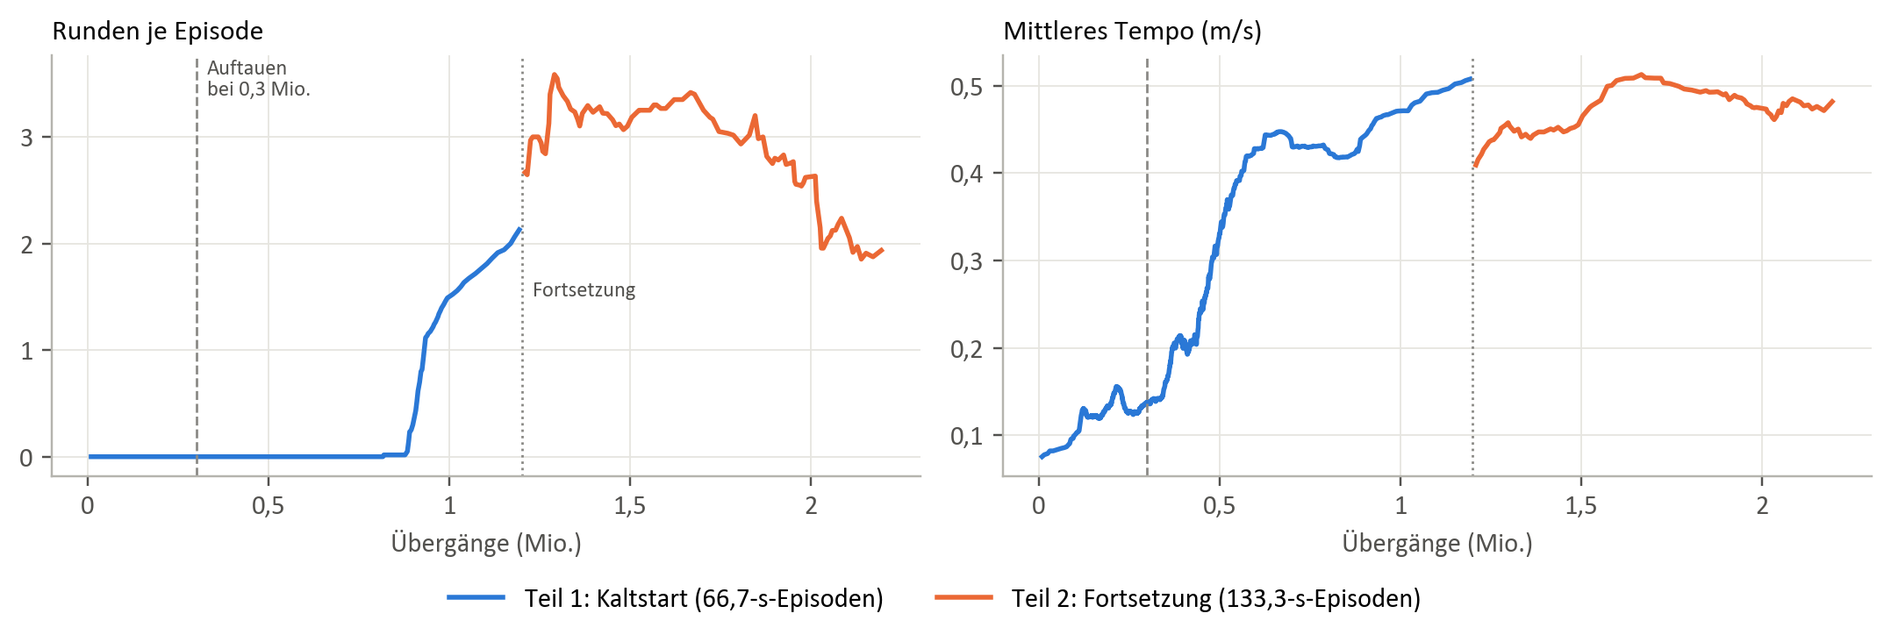
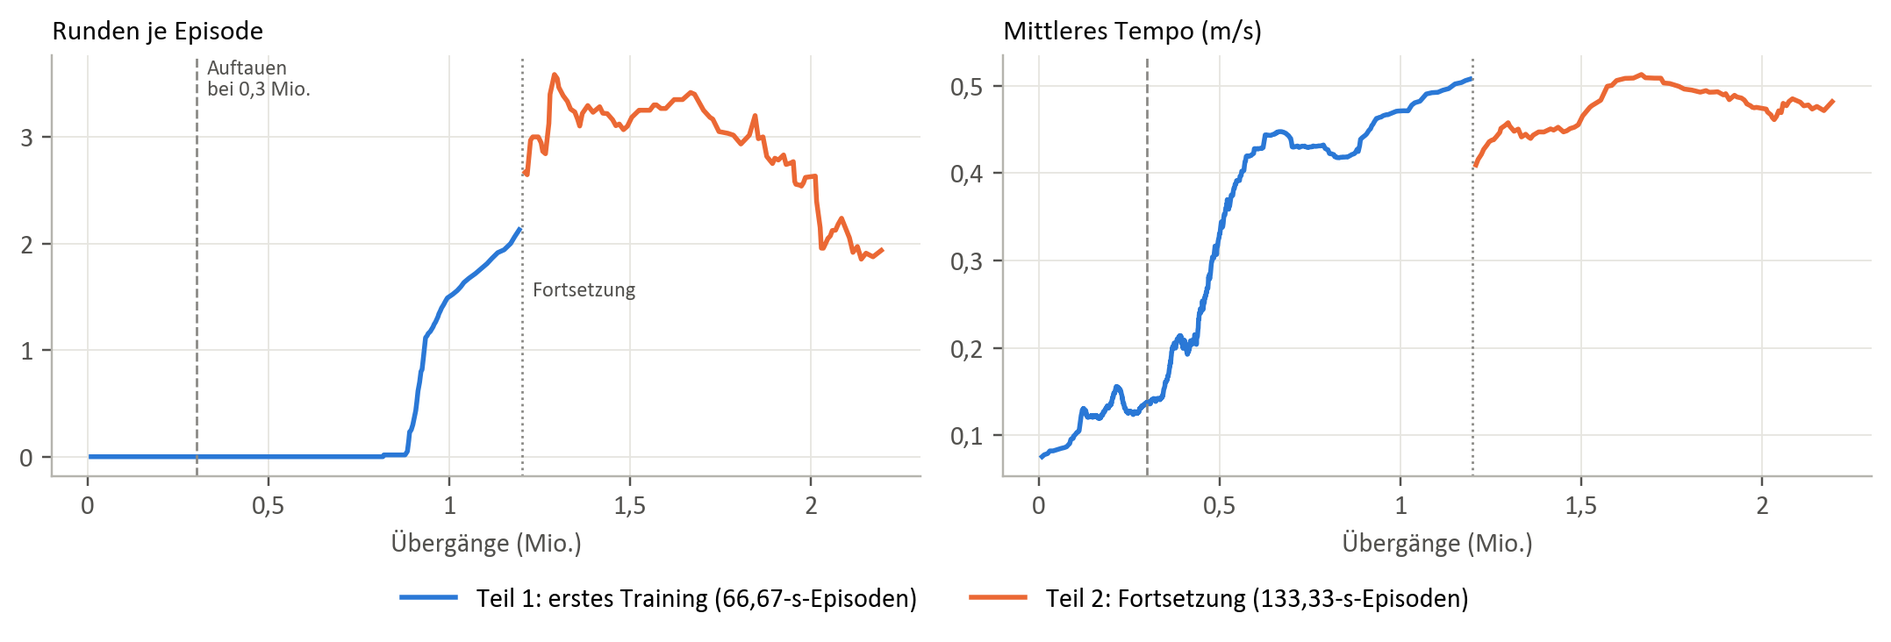
Felix-Teil ueberarbeitet: Kapitel 5/6, Bilder und Literatur aktualisiert

Changed region(s): [[0.2176, 0.9016, 0.7773, 0.9617]]

diff --git a/astra/chapters/felix_teil/06-trainingsablauf.tex b/astra/chapters/felix_teil/06-trainingsablauf.tex
@@ -1,15 +1,13 @@
-% 06-trainingsablauf.tex  --  Teil Felix (Phase 2), Stand: Arbeit V14 - Claude.docx (26.10.2026)
-% Bilder liegen in chapters/felix_teil/bilder/ (Pfade relativ zu main.tex).
+% 06-trainingsablauf.tex
 \chapter{Trainingsablauf in Isaac}
 \label{chap:trainingsablauf}
 
-Wie in Phase~1 gezeigt, ist es von Vorteil, das \ac{RL}-Training nicht ohne Vorbereitung zu starten. Ein Kamera-Agent, der von Null an lernt, muss zwei Dinge gleichzeitig herausfinden: was die Pixel bedeuten und wie man fährt. Das einzige Signal dafür ist die Belohnung. Um das zu erleichtern, wird der Bildteil des Netzes vorab überwacht trainiert. Dieses Kapitel beschreibt zunächst die Trainingspipeline und die Änderungen gegenüber Phase~1. Anschließend folgen die beiden fahrenden Kamera-Agenten, die im Verlauf der Arbeit entstanden sind, im Folgenden Agent~1 und Agent~2. Beide durchlaufen dieselben vier Stufen, unterscheiden sich aber im Ziel des Vortrainings und in den Darstellungen der Strecke: Agent~1 lernt auf einer einzigen Darstellung, Agent~2 auf zwölf.
+Wie in Phase~1 gezeigt, ist es von Vorteil, das \ac{RL}-Training nicht ohne Vorbereitung zu starten. Ein Kamera-Agent, der von Null an lernt, muss zwei Dinge gleichzeitig herausfinden: was die Pixel bedeuten und wie man fährt. Das einzige Signal dafür ist die Belohnung. Um das zu erleichtern, wird der Bildteil des Netzes vorab überwacht trainiert. Anschließend folgen die beiden fahrenden Kamera-Agenten, die im Verlauf der Arbeit entstanden sind, im Folgenden Agent~1 und Agent~2. Beide durchlaufen dieselben vier Stufen, unterscheiden sich aber im Ziel des Vortrainings und in den Darstellungen der Strecke: Agent~1 lernt auf einer einzigen Darstellung, Agent~2 auf zwölf.
 
-% ════════════════════════════════════════════════════════════════════════════
 \section{Die Trainingspipeline in 3D}
 \label{sec:pipeline3d}
 
-Wie in der Python-Umgebung wird auch hier eine mehrstufige Pipeline verwendet, um den Ablauf des \ac{RL}-Trainings effizienter zu gestalten. Diese Pipeline besteht in dieser Arbeit aus vier Stufen (Abbildung~\ref{fig:pipeline_stufen}).
+Entsprechend der Python-Umgebung wird auch hier eine mehrstufige Trainingspipeline verwendet, um den Ablauf des \ac{RL}-Trainings effizienter zu gestalten. Diese Pipeline besteht aus vier separaten Stufen, wie in Abbildung~\ref{fig:pipeline_stufen} zu sehen.
 
 \begin{figure}[htbp]
   \centering
@@ -19,58 +17,54 @@ Wie in der Python-Umgebung wird auch hier eine mehrstufige Pipeline verwendet, u
 \end{figure}
 
 \paragraph{Stufe 1 -- Lehrer.}
-Wie in Phase~1 wird zuerst ein Agent trainiert, der als Lehrer für den späteren bildbasierten Agenten dient (Abschnitt~\ref{subsec:privileged}). Während der Lehrer in der 2D-Umgebung anhand von Lidar-Strahlen lernte, ist er hier zustandsbasiert: Er erhält den exakten Zustand aus der Simulation, also Geschwindigkeit, Drehrate, Richtungsfehler, Querversatz und die Abstände zu beiden Fahrbahnkanten, sowie seine letzte Aktion. Da Isaac alle diese Größen ohnehin kennt, ist es nicht nötig, Abstandsstrahlen nachzubilden.
+Wie in Phase~1 wird zuerst ein Agent trainiert, der als Lehrer für den späteren bildbasierten Agenten dient (Abschnitt~\ref{subsec:privileged}). Während der Lehrer in der 2D-Umgebung anhand von Lidar-Strahlen lernte, ist er hier zustandsbasiert. Er erhält den exakten Zustand aus der Simulation, also Geschwindigkeit, Drehrate, Richtungsfehler, Querversatz und die Abstände zu beiden Fahrbahnkanten, sowie seine letzte Aktion. Da Isaac alle diese Größen ohnehin kennt, ist es nicht nötig, Abstandsstrahlen nachzubilden.
 
-Dieser Lehrer wird mit \ac{SAC} auf 64 parallelen Umgebungen trainiert und fährt nach \num{768000} Übergängen 8 Runden pro Episode ohne Crash, mit einer Rundenzeit von ca.\ \SI{8.3}{\second}. Damit ist gezeigt, dass Physik und Belohnungsfunktion in 3D lösbar sind.
+Dieser Lehrer wird mit \ac{SAC} auf 64 parallelen Umgebungen trainiert und fährt nach \num{768000} Übergängen 8 Runden je Episode ohne Crash, mit einer Rundenzeit von ca.\ \SI{8.3}{\second}. Damit ist gezeigt, dass Physik und Belohnungsfunktion in 3D lösbar sind.
 
 \paragraph{Stufe 2 -- Datenaufzeichnung.}
-Anschließend fährt der Lehrer in der Kamera-Umgebung, und zu jedem Schritt werden der Bildstapel und die Aktion des Lehrers gespeichert, insgesamt \num{48000} Paare. Abweichend von Phase~1 fährt der Lehrer dabei deterministisch, ohne injiziertes Rauschen (Gleichung~\eqref{eq:noise}); Vielfalt im Datensatz entsteht nur durch die zufälligen Startpositionen.
-% TODO (Felix): Datenquelle von Agent 2 fehlt noch (600 Lagen aus einer Fahrt von Agent 1, in allen 12 Darstellungen gerendert).
+Anschließend fährt der Lehrer in der Kamera-Umgebung. Zu jedem Schritt werden der Bildstapel und die Aktion des Lehrers gespeichert, insgesamt \num{48000} Paare. Abweichend von Phase~1 fährt der Lehrer dabei deterministisch, ohne injiziertes Rauschen (Gleichung~\eqref{eq:noise}), Vielfalt im Datensatz entsteht nur durch die zufälligen Startpositionen. Für Agent~2 stammen die Bilder stattdessen aus einer Fahrt von Agent~1, die in allen zwölf Darstellungen der Strecke gerendert wird (Abschnitt~\ref{sec:agent2}).
 
 \paragraph{Stufe 3 -- Vortraining.}
-Vortrainiert wird der Teil des Netzes, der aus dem Bildstapel Merkmale berechnet, im Folgenden Merkmalsextraktor (Encoder). Er besteht wie in Phase~1 aus den drei Faltungsschichten des NatureCNN \cite{mnih2015human} und einer voll verbundenen Schicht mit 512 Neuronen. Für Agent~1 lernt das Netz analog zu Phase~1, die Aktionen des Lehrers nachzuahmen (\ac{BC}, Abschnitt~\ref{subsec:il}). Bestätigt wurde dabei die Warnung aus Abschnitt~\ref{sec:ergebnisse_pipeline}, dass ein niedriger Vorhersagefehler kein Fahrkönnen belegt: Von zwei Netzen fuhr das mit dem schlechteren Fehler ($R^2 = 0{,}25$ gegen $0{,}47$) \SI{60}{\percent} weiter. Nach dem Vorhersagefehler wäre das schlechtere Netz ausgewählt worden. Vortrainierte Netze wurden deshalb im Fahrversuch bewertet, nicht am Verlust.
+Vortrainiert wird der Teil des Netzes, der aus dem Bildstapel Merkmale berechnet, im Folgenden Merkmalsextraktor (Encoder). Er besteht wie in Phase~1 aus den drei Faltungsschichten des NatureCNN \cite{mnih2015human} und einer voll verbundenen Schicht mit 512 Neuronen. Für Agent~1 lernt das Netz analog zu Phase~1, die Aktionen des Lehrers nachzuahmen (\ac{BC}, Abschnitt~\ref{subsec:il}). Bestätigt wurde dabei die Warnung aus Abschnitt~\ref{sec:ergebnisse_pipeline}, dass ein niedriger Vorhersagefehler kein Fahrkönnen belegt: Von zwei Netzen fuhr das mit dem schlechteren Fehler ($R^2 = \num{0.25}$ gegen \num{0.47}) \SI{60}{\percent} weiter. Nach dem Vorhersagefehler wäre das schlechtere Netz ausgewählt worden. Vortrainierte Netze wurden deshalb im Fahrversuch bewertet, nicht am Verlust.
 
-Für Agent~2 lernt der Encoder dagegen nicht die Aktionen, sondern nur die Lage des Fahrzeugs, Querversatz zur Mittellinie und Richtungsfehler, beide aus der Simulation exakt bekannt. Vortrainiert wird damit nur das Sehen, nicht das Fahren; wie auf eine Situation zu reagieren ist, lernt der Agent erst im \ac{RL}-Training.
+Für Agent~2 lernt der Encoder dagegen nicht die Aktionen, sondern nur die Lage des Fahrzeugs, Querversatz zur Mittellinie und Richtungsfehler, beide aus der Simulation exakt bekannt. Vortrainiert wird damit nur das Sehen, nicht das Fahren, wie auf eine Situation zu reagieren ist, lernt der Agent erst im \ac{RL}-Training.
 
 \paragraph{Stufe 4 -- Online-Training mit SAC.}
 Die vortrainierten Gewichte werden in das Netz des \ac{RL}-Agenten übertragen und als Grundlage für das \ac{SAC}-Training verwendet. Für Agent~1 werden nur die Faltungsschichten übernommen, für Agent~2 der gesamte Encoder. Der Kopf hinter dem Encoder, der aus den Merkmalen die Aktionen und ihre Bewertung berechnet, ist zu Beginn zufällig initialisiert.
 
-Gerade am Anfang des Trainings sind die Gradienten des Reinforcement Learning stark verrauscht: Der Agent verlässt nach wenigen Schritten die Fahrbahn, und der Kritiker kann den Wert einer Aktion kaum einschätzen. Lernt der Encoder in dieser Phase mit, überschreiben diese Gradienten das vortrainierte Sehen, bevor der Kopf gelernt hat, es zu nutzen.
+Gerade am Anfang des Trainings sind die Gradienten des Reinforcement Learning stark verrauscht, der Agent verlässt nach wenigen Schritten die Fahrbahn, und der Critic kann den Wert einer Aktion kaum einschätzen. Lernt der Encoder in dieser Phase mit, überschreiben diese Gradienten das vortrainierte Sehen, bevor der Kopf gelernt hat, es zu nutzen.
 
 Der Encoder wird deshalb zu Beginn eingefroren: Seine Gewichte bleiben für eine festgelegte Zahl von Übergängen unverändert, und nur der Kopf lernt. Danach wird der Encoder aufgetaut und lernt mit. Die Gradienten verfeinern das Sehen nun, statt es zu zerstören. Bei Agent~1 waren die Faltungsschichten bis \num{0.3}~Mio.\ Übergänge eingefroren, bei Agent~2 der gesamte Encoder bis 2~Mio. Wie entscheidend dieser Schritt ist, zeigt ein Gegenversuch (Abschnitt~\ref{sec:einfrieren}).
 
-% ════════════════════════════════════════════════════════════════════════════
 \section{Training des Kamera-Agenten}
 \label{sec:kamera_training}
 
-Der Kamera-Agent wird, wie in Phase~1 erarbeitet, mit \ac{SAC} trainiert (Abschnitte~\ref{subsec:ppo_sac} und~\ref{subsec:ppo_sac_vergleich}); auch die Netzarchitektur, das NatureCNN, stammt aus Phase~1. Actor und Kritiker besitzen jeweils einen eigenen Encoder, dahinter je einen Kopf, der die drei Aktionen bzw.\ deren Bewertung berechnet.
+Der Kamera-Agent wird, wie in Phase~1 erarbeitet, mit \ac{SAC} trainiert (Abschnitte~\ref{subsec:ppo_sac} und~\ref{subsec:ppo_sac_vergleich}); auch die Netzarchitektur, das NatureCNN, stammt aus Phase~1. Actor und Critic besitzen jeweils einen eigenen Encoder, dahinter je einen Kopf, der die drei Aktionen bzw.\ deren Bewertung berechnet.
 
 Während des Trainings fährt der Agent parallel in mehreren Umgebungen. Jeder Übergang landet im Erfahrungsspeicher, aus dem nach jedem Simulationsschritt Stichproben für die Updates gezogen werden. Die Aktionen sind dabei zufällig gestreut, damit der Agent erkundet.
 
-Als Eingabe erhält der Agent ausschließlich den Bildstapel. Belohnung, frühere Aktionen oder die Geschwindigkeit werden nicht zurückgeführt; die Belohnung dient nur als Lernsignal für den Kritiker.
+Als Eingabe erhält der Agent ausschließlich den Bildstapel. Belohnung, frühere Aktionen oder die Geschwindigkeit werden nicht zurückgeführt, die Belohnung dient nur als Lernsignal für den Critic.
 
 \paragraph{Bewertung.}
 Die Agenten werden nach dem Training deterministisch bewertet, also ohne Zufallsanteil der Aktionen und ohne Bildstörungen, mit zufälligen Startpositionen und getrennt je Darstellung der Strecke. Dabei werden Runden je Episode, mittleres Tempo, beste Rundenzeit und der Anteil der Episoden, die mit einem Crash enden, gemessen. Die Werte aus dem Training eignen sich dafür nicht, weil die Aktionen dort zufällig gestreut und über alle Darstellungen gemittelt sind. Da gute Agenten in \SI{66.67}{\second} das Zeitlimit von etwa sechs Runden erreichen, wurden die fertigen Modelle zusätzlich mit \SI{200}{\second} langen Episoden gemessen.
 
-% ════════════════════════════════════════════════════════════════════════════
 \section{Probleme auf dem Weg zum ersten Agenten}
 \label{sec:probleme_agent1}
 
-Bis zum ersten fahrenden Kamera-Agenten vergingen etwa \SI{125}{\hour} Rechenzeit in Läufen, die nichts lernen konnten. Die wesentlichen Fehler traten ohne Absturz oder Warnung auf. Die meisten Fehler betrafen die Vortrainingskette: invertierte Lehrerbilder, Lehreraktionen außerhalb des gültigen Wertebereichs und das Speichern der letzten statt der besten Trainingsepoche.
+Bis zum ersten fahrenden Kamera-Agenten vergingen etwa \SI{125}{\hour} Rechenzeit in Läufen, die nichts lernen konnten. Die wesentlichen Fehler traten ohne Absturz oder Warnung auf. Mehrere Fehler betrafen die Vortrainingskette: invertierte Lehrerbilder, Lehreraktionen außerhalb des gültigen Wertebereichs und das Speichern der letzten statt der besten Trainingsepoche.
 
 Auch mit korrektem Bild lernte der Agent zunächst nicht zu fahren. Zum einen bestand eine Belohnungsfalle: Ohne den Fortschrittsterm brachte Geradeausfahren erst ab \SI{0.52}{\meter\per\second} Pluspunkte, sodass ein schnelles Verlassen der Fahrbahn für den Agenten günstiger war als langsames Weiterfahren. Erst der Fortschrittsterm (Abschnitt~\ref{subsec:3d_belohnung}) beseitigte diese Falle. Zum anderen verlor der Agent seine vortrainierte Sehfähigkeit. Das vortrainierte Netz fuhr allein 120 Schritte weit, der Agent nach \num{762000} Übergängen nur noch 44 und damit kürzer als ein Fahrzeug, das ohne Lenken 86 Schritte weit fährt. Das \ac{RL} hatte die vortrainierten Merkmale überschrieben.
 
-% ════════════════════════════════════════════════════════════════════════════
 \section{Einfrieren des Encoders}
 \label{sec:einfrieren}
 
-Wie entscheidend das Einfrieren ist, zeigt ein Gegenversuch: zwei Läufe mit identischem Aufbau, einmal mit eingefrorenem Encoder bis 2~Mio.\ Übergänge und einmal ohne Einfrieren, jeweils über 3~Mio.\ Übergänge. Der Aufbau entspricht dem von Agent~2 (Abschnitt~\ref{sec:agent2}), gefahren auf der neu erzeugten Streckenführung \texttt{kurs\_A} (Abschnitt~\ref{sec:andere_strecken}). Für das Ergebnis ist das unerheblich, da sich die beiden Läufe nur im Einfrieren unterscheiden.
+Wie wichtig das Einfrieren des Encoders ist, zeigt ein Gegenversuch: zwei Läufe mit identischem Aufbau, einmal mit eingefrorenem Encoder bis 2~Mio.\ Übergänge und einmal ohne Einfrieren. Der Aufbau entspricht dem von Agent~2 (Abschnitt~\ref{sec:agent2}).
 
-Neben der Episodenlänge werden dafür zwei Kennzahlen aufgezeichnet: der Anteil inaktiver (\enquote{toter}) Neuronen der 512er-Schicht und die Streuung des Lenkbefehls über verschiedene Bilder. Ist diese Streuung null, hängt der Lenkbefehl nicht mehr vom Bild ab, und der Agent ist blind. In den üblichen Trainingskurven ist das nicht zu erkennen, sie verlaufen lediglich flach. Tabelle~\ref{tab:gegenversuch_einfrieren} und Abbildung~\ref{fig:gegenversuch_einfrieren} zeigen den Verlauf.
+Neben der Episodenlänge werden dafür zwei Kennzahlen aufgezeichnet, beide auf einer Stichprobe von Bildern aus dem Erfahrungsspeicher. Die erste ist der Anteil inaktiver Neuronen der 512er-Schicht, also der Neuronen, die für alle Bilder der Stichprobe null ausgeben. Ein solches Neuron trägt keine Information über das Bild mehr, ist fast die gesamte Schicht inaktiv, erreicht den Kopf des Netzes kaum noch Bildinformation. Die zweite ist die Streuung des Lenkbefehls über die Bilder der Stichprobe. Ist sie null, gibt der Agent für jedes Bild denselben Lenkbefehl aus, er ist blind. In den üblichen Trainingskurven ist beides nicht zu erkennen, sie verlaufen lediglich flach. Tabelle~\ref{tab:gegenversuch_einfrieren} und Abbildung~\ref{fig:gegenversuch_einfrieren} zeigen den Verlauf.
 
 \begin{table}[htbp]
   \centering
-  \caption{Gegenversuch Einfrieren, Werte im Trainingsverlauf (Episodenlänge in Schritten / Anteil toter Neuronen der 512er-Schicht / Streuung des Lenkbefehls).}
+  \caption{Gegenversuch Einfrieren, Werte im Trainingsverlauf (Episodenlänge in Schritten / Anteil inaktiver Neuronen der 512er-Schicht / Streuung des Lenkbefehls).}
   \label{tab:gegenversuch_einfrieren}
   \small
   \begin{tabular}{@{}l c c@{}}
@@ -94,18 +88,19 @@ Neben der Episodenlänge werden dafür zwei Kennzahlen aufgezeichnet: der Anteil
 
 Ohne Einfrieren wird der Agent blind. Schon nach einer halben Million Übergängen hängt der Lenkbefehl nicht mehr vom Bild ab, und die 512er-Schicht stirbt bis zum Ende fast vollständig ab. Der Agent fährt keine Runde, die Episoden enden nach etwa einer Sekunde. Mit Einfrieren bleibt das Sehen erhalten; nach dem Auftauen steigen Episodenlänge und Tempo, und der Agent fährt nach \num{2.9}~Mio.\ Übergängen seine erste Runde.
 
-Damit ist das Einfrieren als notwendig belegt: Ohne Schutz zerstört das \ac{RL} den vortrainierten Encoder in den ersten Hunderttausend Übergängen, bevor der Kopf gelernt hat, ihn zu nutzen. Ein Vorversuch, in dem nur die Faltungen eingefroren und die 512er-Schicht zufällig initialisiert waren, zeigte dasselbe Absterben der 512er-Schicht (\SIrange{95}{97}{\percent} inaktiv); übertragen und eingefroren werden muss also der gesamte Encoder. Ähnliche Beobachtungen sind aus der Literatur bekannt: Bei bildbasiertem \ac{SAC} verschlechtert der Gradient des Actors die Bildmerkmale, weshalb er dort vom Encoder abgekoppelt wird \cite{yarats2021improving}. Wie in fast allen Vergleichen dieser Arbeit wurde nur ein Lauf je Bedingung gefahren. Der Unterschied ist aber kein knapper Zahlenunterschied, sondern ein vollständig anderer Verlauf, und der Verlauf ohne Einfrieren wiederholt, was in drei früheren Versuchen mit anderen Startwerten beobachtet wurde.
+Damit ist das Einfrieren als notwendig belegt. Ohne Schutz zerstört das \ac{RL} den vortrainierten Encoder in den ersten Hunderttausend Übergängen, bevor der Kopf gelernt hat, ihn zu nutzen.
 
-% ════════════════════════════════════════════════════════════════════════════
 \section{Der erste fahrende Kamera-Agent}
 \label{sec:agent1}
 
-Nachdem diese Probleme behoben waren, gelang mit Agent~1 das erste Training eines Kamera-Agenten, der zuverlässig Runden fährt.
+Nach Behebung dieser Probleme gelingt mit Agent~1 das erste Training eines Kamera-Agenten, der zuverlässig Runden fährt.
 
-\subsection{Einstellungen}
+\subsection{Genutzte Parameter}
 \label{subsec:agent1_einstellungen}
 
-Tabelle~\ref{tab:agent1_einstellungen} fasst die Einstellungen von Agent~1 zusammen. Gegenüber den vorherigen Läufen wurden zwei Dinge geändert: Statt 64 laufen nur noch 4 parallele Umgebungen, wodurch der Erfahrungsspeicher je Umgebung 69 statt 4 Minuten Fahrt enthält, und die Faltungsschichten bleiben bis \num{0.3}~Mio.\ Übergänge eingefroren.
+Mit den Einstellungen aus Tabelle~\ref{tab:agent1_einstellungen} gelang das erste Training eines Kamera-Agenten, der zuverlässig Runden fährt.
+
+Gegenüber den vorherigen Läufen wurden zwei Dinge geändert: Statt 64 laufen nur noch 4 parallele Umgebungen, wodurch der Erfahrungsspeicher je Umgebung 69 statt 4 Minuten Fahrt enthält, und die Faltungsschichten bleiben bis \num{0.3}~Mio.\ Übergänge eingefroren.
 
 \begin{table}[htbp]
   \centering
@@ -117,14 +112,14 @@ Tabelle~\ref{tab:agent1_einstellungen} fasst die Einstellungen von Agent~1 zusam
     \textbf{Einstellung} & \textbf{Agent~1} \\
     \midrule
     Parallele Umgebungen                    & 4 \\
-    Beobachtung                             & 3 Bilder à \num{150} $\times$ \num{250} Pixel, 256 Graustufen \\
+    Beobachtung                             & 3 Bilder à \num{250} $\times$ \num{150} Pixel, 256 Graustufen \\
     Darstellungen der Strecke               & 1 \\
     Vortraining                             & \ac{BC} auf \num{48000} Lehrerpaaren; übernommen: Faltungsschichten \\
     Eingefroren                             & Faltungsschichten bis \num{0.3}~Mio.\ Übergänge \\
     Batchgröße / Updates                    & 512 / 2 je Simulationsschritt (\num{0.5} je Übergang) \\
     Erfahrungsspeicher gesamt / je Umgebung & \num{500000} / \num{125000} Übergänge ($\approx$ \SI{69}{\minute} Fahrt) \\
     Lernrate / Diskontfaktor $\gamma$       & \num{5e-5} / \num{0.99} \\
-    Episodenlänge                           & \SI{66.67}{\second}; in der Fortsetzung \SI{133.3}{\second} \\
+    Episodenlänge                           & \SI{66.67}{\second}; in der Fortsetzung \SI{133.33}{\second} \\
     Übergänge im fertigen Modell            & \num{2.2}~Mio.\ (\num{1.2} + \num{1.0}) \\
     Durchsatz                               & $\approx$ 11 Übergänge/s (rund \SI{38}{\hour} je \num{1.5}~Mio.) \\
     \bottomrule
@@ -145,14 +140,14 @@ Dieser Agent lernt auf einer Strecke mit stets gleicher Darstellung. Abbildung~\
   \label{fig:agent1_verlauf}
 \end{figure}
 
-Deterministisch gemessen, also ohne Explorationsrauschen und über zehn Episoden, fährt Agent~1 auf seinem Erscheinungsbild \num{6.4} Runden je Episode von \SI{66.67}{\second}, mit einer mittleren Geschwindigkeit von \SI{0.65}{\meter\per\second} und einer besten Runde von \SI{8.65}{\second}. Ca.\ \SI{10}{\percent} der Episoden enden mit einem Crash. Zum Vergleich fährt der zustandsbasierte Lehrer, der alle Größen exakt kennt, auf der gleichen Strecke etwa \SI{8.3}{\second} je Runde. Agent~1 ist also rund \SI{4}{\percent} langsamer, obwohl dieser die Lage und Bewegungen des Fahrzeugs aus \num{9} $\times$ \num{4} Pixeln ablesen muss. In Episoden von \SI{200}{\second} fährt er im Mittel \num{10.4} Runden mit einer besten Runde von \SI{8.59}{\second}. In 3 von 10 Episoden fährt er rund 20 Runden ohne Crash, \SI{70}{\percent} der langen Episoden enden jedoch vorzeitig. Der beste Bild-Agent der 2D-Umgebung schaffte unter vergleichbaren Bedingungen mit gestreuten Startpunkten \num{3.1} Runden.
+Deterministisch gemessen, also ohne Explorationsrauschen und über zehn Episoden, fährt Agent~1 auf seiner Darstellung \num{6.4} Runden je Episode von \SI{66.67}{\second}, mit einer mittleren Geschwindigkeit von \SI{0.65}{\meter\per\second} und einer besten Runde von \SI{8.65}{\second}. Ca.\ \SI{10}{\percent} der Episoden enden mit einem Crash. Zum Vergleich fährt der zustandsbasierte Lehrer, der alle Größen exakt kennt, auf der gleichen Strecke etwa \SI{8.3}{\second} je Runde. Agent~1 ist also rund \SI{4}{\percent} langsamer, obwohl dieser die Lage und Bewegungen des Fahrzeugs aus \num{9} $\times$ \num{4} Pixeln ablesen muss. In Episoden von \SI{200}{\second} fährt er im Mittel \num{10.4} Runden mit einer besten Runde von \SI{8.59}{\second}. In 3 von 10 Episoden fährt er rund 20 Runden ohne Crash, \SI{70}{\percent} der langen Episoden enden jedoch vorzeitig. Der beste Bild-Agent der 2D-Umgebung schaffte unter vergleichbaren Bedingungen mit gestreuten Startpunkten \num{3.1} Runden.
 
 Der kurze Einbruch zu Beginn der Fortsetzung in Abbildung~\ref{fig:agent1_verlauf} ist kein Verlernen. Stable-Baselines3 wählt in den ersten Schritten eines Laufs Zufallsaktionen, um den Speicher zu füllen; bei der Fortsetzung waren das \num{50000} Übergänge, in denen der Agent zufällig fuhr.
 
 \paragraph{Ursache des Durchbruchs.}
-Der Durchbruch dieses Agenten kann nicht eindeutig auf eine einzelne Änderung zurückgeführt werden. Gegenüber den vorherigen Läufen wurde zum einen die Zahl der Umgebungen von 64 auf 4 reduziert, wodurch jede Umgebung einen größeren Anteil des Erfahrungsspeichers erhält, zum anderen wurden erstmals die Faltungsschichten eingefroren. Damit wurde Regel~2 aus Phase~1, nur eine Änderung je Lauf (Abschnitt~\ref{sec:lessons}), verletzt.
+Der Durchbruch dieses Agenten kann nicht eindeutig auf eine einzelne Änderung zurückgeführt werden. Gegenüber den vorherigen Läufen wird zum einen die Zahl der Umgebungen von 64 auf 4 reduziert, wodurch jede Umgebung einen größeren Anteil des Erfahrungsspeichers erhält, zum anderen werden erstmals die Faltungsschichten eingefroren. Damit wurde Regel~2 aus Phase~1, nur eine Änderung je Lauf (Abschnitt~\ref{sec:lessons}), verletzt.
 
-Einen Hinweis liefert der Gegenversuch zum Einfrieren des Encoders (Abschnitt~\ref{sec:einfrieren}). Dort erblindet der Agent ohne Einfrieren, obwohl jede Umgebung mit \SI{104}{\minute} Fahrt über einen noch größeren Speicheranteil verfügt. Das spricht dafür, dass das Einfrieren den größeren Anteil am Durchbruch hatte. Für Agent~1 selbst ist es nicht belegt, da beide Änderungen nie getrennt untersucht wurden.
+Einen Hinweis liefert der vorherige Gegenversuch zum Einfrieren des Encoders (Abschnitt~\ref{sec:einfrieren}). Dort erblindet der Agent ohne Einfrieren, obwohl jede Umgebung mit \SI{104}{\minute} Fahrt über einen noch größeren Speicheranteil verfügt. Das spricht dafür, dass das Einfrieren den größeren Anteil am Durchbruch hatte. Für Agent~1 selbst ist es nicht belegt, da beide Änderungen nie getrennt untersucht wurden.
 
 \subsection{Eine Einschränkung}
 \label{subsec:agent1_einschraenkung}
@@ -161,7 +156,6 @@ Um zu prüfen, wie weit Agent~1 verallgemeinert, wurde er ohne weiteres Training
 
 Das deckt sich mit dem Befund aus Phase~1, dass bereits \SI{0.05}{\percent} abweichende Pixel eine Policy umwerfen können (Abschnitt~\ref{subsec:buffer}).
 
-% ════════════════════════════════════════════════════════════════════════════
 \section{Der zweite Agent}
 \label{sec:agent2}
 
@@ -188,7 +182,7 @@ Weiterhin wird das Bild für Agent~2 auf vier Graustufen reduziert. Feine Unters
 
 Agent~2 wird mit 16 parallelen Umgebungen trainiert. Der vortrainierte Encoder wird vollständig übernommen und bleibt bis 2~Mio.\ Übergänge eingefroren. Seine erste vollständige Runde fährt der Agent nach \num{3.9}~Mio.\ Übergängen. Das fertige Modell wurde über \num{14.5}~Mio.\ Übergänge in rund \SI{92}{\hour} trainiert.
 
-Abbildung~\ref{fig:agent2_verlauf} zeigt den Trainingsverlauf. Die Kurven enthalten das Explorationsrauschen und sind über alle Darstellungen gemittelt. Sie liegen daher deutlich unter den deterministisch gemessenen Werten. Zwischen \num{4.4} und 5~Mio.\ Übergängen stieg der Verlust des Kritikers um das Hundertfache, und das Fahren brach vorübergehend ein. Zeitlich fällt das mit den ersten Runden zusammen, deren Bonus die Zielwerte des Kritikers sprunghaft erhöht. Der Encoder blieb dabei intakt, und der Agent erholte sich ohne Eingriff. Das ist ein Hinweis zu der in Phase~1 offenen Frage, warum \ac{SAC}-Läufe nach ihrem Höhepunkt einbrechen (Abschnitt~\ref{sec:lessons}), aber keine Erklärung.
+Abbildung~\ref{fig:agent2_verlauf} zeigt den Trainingsverlauf. Die Kurven enthalten das Explorationsrauschen und sind über alle Darstellungen gemittelt. Sie liegen daher deutlich unter den deterministisch gemessenen Werten. Zwischen \num{4.4} und 5~Mio.\ Übergängen stieg der Verlust des Critics um das Hundertfache, und das Fahren brach vorübergehend ein. Zeitlich fällt das mit den ersten Runden zusammen, deren Bonus die Zielwerte des Critics sprunghaft erhöht. Der Encoder blieb dabei intakt, und der Agent erholte sich ohne Eingriff. Das ist ein Hinweis zu der in Phase~1 offenen Frage, warum \ac{SAC}-Läufe nach ihrem Höhepunkt einbrechen (Abschnitt~\ref{sec:lessons}), aber keine Erklärung.
 
 \begin{figure}[htbp]
   \centering
@@ -197,7 +191,7 @@ Abbildung~\ref{fig:agent2_verlauf} zeigt den Trainingsverlauf. Die Kurven enthal
   \label{fig:agent2_verlauf}
 \end{figure}
 
-\subsection{Ergebnis}
+\subsection{Das Ergebnis}
 \label{subsec:agent2_ergebnis}
 
 Abbildung~\ref{fig:agent2_darstellungen} zeigt das Ergebnis von Agent~2 nach \num{14.5}~Mio.\ Übergängen auf allen zwölf Darstellungen. Im Mittel fährt er \num{4.5} Runden je Episode bei einem Tempo von \SI{0.53}{\meter\per\second}. Die beste Runde dauert \SI{9.65}{\second}, und \SI{31}{\percent} der Episoden enden mit einem Crash. Auf allen zwölf Darstellungen fährt er Runden, auf sieben davon im Mittel mindestens fünf.
@@ -218,12 +212,11 @@ Als Gegenprobe wurde Agent~1 auf denselben zwölf Darstellungen gemessen: Er fä
 Auf den Darstellungen mit vielen Crashes verlässt der Agent fast immer in derselben Kurve die Fahrbahn. Der Hergang ist jedes Mal gleich: Innerhalb von \SI{0.3}{\second} wächst der Richtungsfehler von nahezu null auf über \SI{30}{\degree}, und der Gegenlenkbefehl kommt zu spät. Das Tempo ist dabei nicht die Ursache; auf einer sicher gefahrenen Darstellung durchfährt er dieselbe Kurve sogar schneller. Auch die Sichtbarkeit ist es nicht: Der Encoder liest die Lage auf der schwächsten Darstellung genauer ab als auf mancher sicher gefahrenen. Der Agent hat an dieser Stelle schlicht eine sehr kleine Reserve, sodass jede kleine Änderung der Eingabe das Ergebnis umkippen kann.
 
 \paragraph{Feinere Graustufen.}
-Dazu passt ein überraschender Befund. Wird das Kamerabild bei der Messung auf acht statt auf die trainierten vier Graustufen reduziert, sinkt die Crashrate auf der Darstellung \texttt{fb52\_fliesen} von \SI{80}{\percent} auf \SI{0}{\percent}, ohne jedes Nachtraining; auch mit 16 und 256 Stufen gab es keinen Crash. Der Agent verträgt also feinere Eingaben als die, auf denen er trainiert wurde. Für die Übertragung auf eine echte Kamera mit 256 Graustufen ist das die günstige Richtung.
+Dazu passt ein überraschender Befund. Wird das Kamerabild bei der Messung auf acht statt auf die trainierten vier Graustufen reduziert, sinkt die Crashrate auf der Darstellung \texttt{fb52\_fliesen} von \SI{80}{\percent} auf \SI{0}{\percent}, ohne jedes Nachtraining, auch mit 16 und 256 Stufen gab es keinen Crash. Der Agent verträgt also feinere Eingaben als die, auf denen er trainiert wurde. Für die Übertragung auf eine echte Kamera mit 256 Graustufen ist das die günstige Richtung.
 
 \paragraph{Lohnt sich das lange Training?}
 Agent~2 wurde nach \num{6.5} und nach \num{14.5}~Mio.\ Übergängen gemessen. Die Differenz von \num{0.54} Runden je Episode liegt innerhalb der Messunsicherheit (Standardfehler \num{0.61}), und die spätere Fassung ist nur auf sieben von zwölf Darstellungen besser. Sicher nachweisbar ist nur, dass sie schneller fährt, auf allen zwölf Darstellungen, mit kürzeren Rundenzeiten. Die zweite Hälfte des Trainings, rund \SI{50}{\hour}, hat also im Wesentlichen das Tempo verbessert, nicht die Zuverlässigkeit.
 
-% ════════════════════════════════════════════════════════════════════════════
 \section{Vergleich der beiden Modelle}
 \label{sec:agentenvergleich}
 
@@ -239,7 +232,7 @@ Tabelle~\ref{tab:agentenvergleich} stellt Agent~1 und Agent~2 gegenüber. Die be
      & \textbf{Agent~1} & \textbf{Agent~2} \\
     \midrule
     Aufgabe                          & 1 Darstellung & 12 Darstellungen mit Bildstörungen \\
-    Vortraining                      & Verhaltensklonen eines Lehrers (Fahrwissen) & Encoder für Versatz und Richtung (nur Sehwissen) \\
+    Vortraining                      & \ac{BC} eines Lehrers (Fahrwissen) & Encoder für Versatz und Richtung (nur Sehwissen) \\
     Eingefroren                      & Faltungen bis \num{0.3}~Mio.\ Übergänge & gesamter Encoder bis 2~Mio.\ Übergänge \\
     Parallele Umgebungen             & 4 & 16 \\
     Graustufen                       & 256 & 4 \\
@@ -255,7 +248,6 @@ Tabelle~\ref{tab:agentenvergleich} stellt Agent~1 und Agent~2 gegenüber. Die be
 
 Neben der Aufgabe unterscheiden sich die beiden Agenten vor allem im Vortraining. Agent~1 hat Fahrwissen vom Lehrer geerbt, Agent~2 hat nur gelernt, wo das Auto auf der Bahn liegt, und das Fahren vollständig selbst gelernt. Dass Agent~2 viermal so viele Übergänge bis zur ersten Runde braucht, ist vor diesem Hintergrund und bei zwölffacher Aufgabe nicht überraschend.
 
-% ════════════════════════════════════════════════════════════════════════════
 \section{Test des zweiten Agenten auf anderen Streckenführungen}
 \label{sec:andere_strecken}
 
@@ -275,15 +267,15 @@ Agent~2 wird ohne weiteres Training auf vier neuen Streckenführungen (\texttt{k
     \toprule
     \textbf{Strecke} & \textbf{Darstellung} & \textbf{Runden je Episode} \\
     \midrule
-    Original                             & trainiert (12) & \num{4.5} (\SI{66.67}{\second}) bzw.\ \num{12.4} (\SI{200}{\second}) \\
-    Original                             & unbekannt      & \num{2.3} \\
-    \texttt{kurs\_A}                     & trainiert (12) & \num{0.00} auf allen 12 \\
-    \texttt{kurs\_A} bis \texttt{kurs\_D} & unbekannt     & \num{0.00} \\
+    Original                              & trainiert (12) & \num{4.5} (\SI{66.67}{\second}) bzw.\ \num{12.4} (\SI{200}{\second}) \\
+    Original                              & unbekannt      & \num{2.3} \\
+    \texttt{kurs\_A}                      & trainiert (12) & \num{0.00} auf allen 12 \\
+    \texttt{kurs\_A} bis \texttt{kurs\_D} & unbekannt      & \num{0.00} \\
     \bottomrule
   \end{tabular}
 \end{table}
 
-Eine unbekannte Darstellung der bekannten Strecke fährt der Agent noch mit \num{2.3} Runden. Eine unbekannte Streckenführung fährt er dagegen nicht, auch wenn sie in den bekannten Darstellungen gezeigt wird. Sein Verhalten auf \texttt{kurs\_A} ist dabei kein schlechteres Fahren, sondern eine Sättigung: voller Lenkeinschlag, Vollgas und Vollbremse gleichzeitig, ohne jede Korrektur. Es ist dasselbe Muster wie bei den blinden Agenten, obwohl der Encoder hier intakt ist.
+Eine unbekannte Darstellung der bekannten Strecke fährt der Agent noch mit \num{2.3} Runden. Eine unbekannte Streckenführung fährt er dagegen nicht, auch wenn sie in den bekannten Darstellungen gezeigt wird. Sein Verhalten auf \texttt{kurs\_A} ist dabei kein schlechteres Fahren, sondern eine Sättigung, voller Lenkeinschlag, Vollgas und Vollbremse gleichzeitig, ohne jede Korrektur. Es ist dasselbe Muster wie bei den blinden Agenten, obwohl der Encoder hier intakt ist.
 
 Besonders aufschlussreich ist, dass \texttt{kurs\_A} die um \SI{180}{\degree} gedrehte Originalstrecke ist. Der Agent hat also nicht die Form der Strecke gelernt, sondern die Form in dieser Lage im Kamerabild. Für eine fest montierte Kamera über einer festen Strecke ist das kein Nachteil. Ein Agent, der jede beliebige Strecke fährt, entsteht so aber nicht.
 
@@ -291,6 +283,7 @@ Besonders aufschlussreich ist, dass \texttt{kurs\_A} die um \SI{180}{\degree} ge
 \label{subsec:weitertrainieren}
 
 Da Agent~2 neue Streckenführungen ohne weiteres Training nicht fährt, wird untersucht, ob sein Vorwissen das Erlernen einer neuen Strecke zumindest beschleunigt. Dazu wird auf zwei Streckenführungen jeweils ein Weitertraining von Agent~2 mit einem Neustart verglichen:
+
 \begin{description}
   \item[Weitertraining:] ausgehend vom fertigen Agent~2, also mit seinem Encoder und seiner Fahrweise;
   \item[Neustart:] ein neuer Agent mit demselben vortrainierten Encoder wie zu Beginn von Agent~2, eingefroren bis 2~Mio.\ Übergänge.
@@ -318,13 +311,12 @@ Als Strecken dienen \texttt{kurs\_A}, die gedrehte Originalstrecke, und \texttt{
 \begin{figure}[htbp]
   \centering
   \includegraphics[width=\linewidth]{chapters/felix_teil/bilder/transfer.png}
-  \caption{Weitertraining (durchgezogen) gegen Neustart (gestrichelt) auf \texttt{kurs\_A} (blau) und \texttt{kurs\_D} (orange). Bei 2~Mio.\ Übergängen wird der Encoder der Neustarts aufgetaut.}
+  \caption{Weitertrainieren (durchgezogen) gegen Neustart (gestrichelt) auf \texttt{kurs\_A} (blau) und \texttt{kurs\_D} (orange). Bei 2~Mio.\ Übergängen wird der Encoder der Neustarts aufgetaut.}
   \label{fig:transfer}
 \end{figure}
 
-Das Vorwissen aus Agent~2 bringt wenig: \SI{3}{\percent} auf \texttt{kurs\_A} und \SI{11}{\percent} auf \texttt{kurs\_D}. Da je Bedingung nur ein Lauf gefahren wurde, kann ein Unterschied von \SI{3}{\percent} auch zufällig entstanden sein. Abbildung~\ref{fig:transfer} zeigt, woher der Unterschied kommt. Der weitertrainierte Agent lernt von Beginn an, weil sein Encoder nicht eingefroren werden muss, und ist nach \num{600000} bis \num{800000} Übergängen deutlich weiter. Sobald der Encoder des neu gestarteten Agenten bei 2~Mio.\ Übergängen aufgetaut wird, holt dieser den Rückstand innerhalb von etwa \num{600000} Übergängen auf.
+Das Vorwissen aus dem Training von Agent~2 bringt wenig: \SI{3}{\percent} auf \texttt{kurs\_A} und \SI{11}{\percent} auf \texttt{kurs\_D}. Da je Bedingung nur ein Lauf gefahren wird, kann ein Unterschied von \SI{3}{\percent} auch zufällig entstehen. Abbildung~\ref{fig:transfer} zeigt, woher der Unterschied kommt. Der weitertrainierte Agent lernt von Beginn an, weil sein Encoder nicht eingefroren werden muss, und ist nach \num{600000} bis \num{800000} Übergängen deutlich weiter. Sobald der Encoder des neu gestarteten Agenten bei 2~Mio.\ Übergängen aufgetaut wird, holt dieser den Rückstand innerhalb von etwa \num{600000} Übergängen auf.
 
 Übertragbar ist damit das \emph{Sehen}, also die Fähigkeit, die Lage des Fahrzeugs im Bild abzulesen. Die \emph{Fahrweise} ist nicht übertragbar. Der Agent lernt nicht das allgemeine Fahren, sondern diese eine Strecke in dieser einen Kameraansicht.
 
-Zwei Einschränkungen gelten für diesen Vergleich. Der Encoder des neu gestarteten Agenten wurde auf Bildern der Originalstrecke trainiert. Beide Bedingungen bringen also Vorwissen von der Originalstrecke mit, und gemessen wurde genau der Beitrag der Fahrweise. Wie viel der Encoder auf einer fremden Strecke beiträgt, wurde nicht gemessen; ein Neustart ganz ohne Encoder wurde dort nicht gefahren.
-% TODO (Felix): Die zweite Einschränkung fehlt in der Word-Fassung (kalter Lauf auf kurs_D nach 3 Mio. mit leerem Erfahrungsspeicher fortgesetzt) -- bewusst gestrichen?
+Zwei Einschränkungen gelten für diesen Vergleich. Zum einen wird der Encoder des neu gestarteten Agenten auf Bildern der Originalstrecke trainiert. Beide Bedingungen bringen also Vorwissen von der Originalstrecke mit, und gemessen wurde genau der Beitrag der Fahrweise. Wie viel der Encoder auf einer fremden Strecke beiträgt, wurde nicht gemessen. Ein Neustart ganz ohne Encoder wurde dort nicht gefahren. Zum anderen musste der Neustart auf \texttt{kurs\_D} ab 3~Mio.\ Übergängen mit leerem Erfahrungsspeicher fortgesetzt werden, weil sich der gesicherte Speicher nicht laden ließ. Das hat ihn vermutlich gebremst; die \SI{11}{\percent} sind daher eher eine Obergrenze.

diff --git a/astra/chapters/03-hauptteil.tex b/astra/chapters/03-hauptteil.tex
@@ -668,11 +668,6 @@ Endet eine Episode, ruft der Vektorisierungs-Wrapper von Stable-Baselines3 sofor
 \section{Phase 2: 3D-Deployment}
 \label{sec:phase2}
 
-\begin{quote}
-\small
-\textbf{Anmerkung zum Bearbeitungsstand.} Dieser Abschnitt wird von dem Projektmitglied ausgefüllt, das die Arbeiten in NVIDIA Isaac Sim durchgeführt hat. Der hier stehende Text ist ausdrücklich ein \emph{Gerüst-Entwurf} und darf vollständig überschrieben werden: Er enthält ausschließlich, was sich aus den Ergebnissen von Phase~1 und den Projektnotizen zur Übertragung (\texttt{isaac\_umsetzung.md}) belastbar ableiten lässt -- das Konzept, die Übertragungsvorschrift und die aus 2D vorhersagbaren Fehlerquellen. Alles, was gemessene 3D-Ergebnisse erfordert, ist als Platzhalter gekennzeichnet und in Anhang~\ref{chap:anhang_b} als offener Beleg geführt.
-\end{quote}
-
 \subsection{Ideen und Konzepte}
 \label{sec:phase2_ideen}
 

diff --git a/astra/chapters/felix_teil/README.md b/astra/chapters/felix_teil/README.md
@@ -1,11 +1,12 @@
 # Felix' Teil (Phase 2: 3D-Umsetzung in Isaac)
 
-LaTeX-Fassung von `Doku/Arbeit V14 - Claude.docx` (Stand 26.10.2026), im Stil von Magnus' Kapiteln.
-Magnus' Dateien (`main.tex`, `bibliography.bib`, `chapters/0*.tex`) sind **nicht** verändert.
+LaTeX-Fassung von `Doku/Arbeit V18.docx` (Stand 28.10.2026), im Stil von Magnus' Kapiteln.
+Text, Zahlen und Beschriftungen folgen der Word-Fassung; offensichtliche Tippfehler und
+Widersprüche zu den Abbildungen sind hier bereits korrigiert.
 
 ## Einbinden
 
-Ist in `main.tex` bereits eingetragen (26.10.2026), hinter `\include{chapters/03-hauptteil}`:
+Ist in `main.tex` eingetragen, hinter `\include{chapters/03-hauptteil}`:
 
 ```latex
 \include{chapters/felix_teil/05-umsetzung-3d}
@@ -18,7 +19,8 @@ und bei den Literaturquellen:
 \addbibresource{chapters/felix_teil/felix_literatur.bib}
 ```
 
-Kapitel-, Abbildungs- und Tabellennummern vergibt LaTeX selbst. Im Text stehen nur `\ref{...}`.
+Im Gesamtdokument werden die beiden Kapitel zu Kapitel 4 und 5 (Word: 5 und 6); Magnus' Ergebnisse
+und Fazit rücken auf 6 und 7. Alle Nummern vergibt LaTeX, im Text stehen nur `\ref{...}`.
 
 ## Inhalt
 
@@ -26,34 +28,42 @@ Kapitel-, Abbildungs- und Tabellennummern vergibt LaTeX selbst. Im Text stehen n
 |---|---|
 | `05-umsetzung-3d.tex` | Kapitel „Umsetzung in 3D“ (Word: Kapitel 5) |
 | `06-trainingsablauf.tex` | Kapitel „Trainingsablauf in Isaac“ (Word: Kapitel 6) |
-| `felix_literatur.bib` | Tobin 2017, Yarats 2021 (SAC-AE), Sketchfab-Modell, skrl, Isaac Lab |
+| `felix_literatur.bib` | Tobin 2017, Sketchfab-Modell (CC BY 4.0), Isaac Lab |
 | `bilder/` | alle Abbildungen in Originalauflösung |
 
-## Abbildungen
+## Abbildungen und Tabellen
 
-| Word | Label | Datei |
+| Word | LaTeX-Label | Datei |
 |---|---|---|
-| 5.1 | `fig:3d_fahrzeugmodell` | `fahrzeugmodell_isaac.png` |
-| 5.2 | `fig:3d_fahrzeug_real` | `fahrzeug_real.jpg` |
-| 5.3 | `fig:3d_lackierung` | `fahrzeug_ohne_mit_lackierung.png` |
-| 5.4 | `fig:3d_grenzen_isaac` | `grenzen_kontrollanzeige.jpg` |
-| 5.5 | `fig:3d_strecke_grenzen` | `strecke_grenzen.png` |
-| 6.1 | `fig:pipeline_stufen` | `pipeline_stufen.png` |
-| 6.2 | `fig:gegenversuch_einfrieren` | `gegenversuch_einfrieren.png` |
-| 6.3 | `fig:agent1_verlauf` | `agent1_verlauf.png` |
-| 6.4 | `fig:darstellungen` | `darstellungen.png` |
-| 6.5 | `fig:agent2_verlauf` | `agent2_verlauf.png` |
-| 6.6 | `fig:agent2_darstellungen` | `agent2_darstellungen.png` |
-| 6.7 | `fig:transfer` | `transfer.png` (Legende jetzt „Weitertraining/Neustart“ statt „warm/kalt“) |
+| Abb. 5.1 | `fig:3d_fahrzeug` | `fahrzeug_modell_und_real.jpg` |
+| Abb. 5.2 | `fig:3d_lackierung` | `fahrzeug_ohne_mit_lackierung.png` |
+| Abb. 5.3 | `fig:3d_grenzen_isaac` | `grenzen_kontrollanzeige.jpg` |
+| Abb. 5.4 | `fig:3d_strecke_grenzen` | `strecke_grenzen.png` |
+| Abb. 6.1 | `fig:pipeline_stufen` | `pipeline_stufen.png` |
+| Abb. 6.2 | `fig:gegenversuch_einfrieren` | `gegenversuch_einfrieren.png` |
+| Abb. 6.3 | `fig:agent1_verlauf` | `agent1_verlauf.png` |
+| Abb. 6.4 | `fig:darstellungen` | `darstellungen.png` |
+| Abb. 6.5 | `fig:agent2_verlauf` | `agent2_verlauf.png` |
+| Abb. 6.6 | `fig:agent2_darstellungen` | `agent2_darstellungen.png` |
+| Abb. 6.7 | `fig:transfer` | `transfer.png` |
+| Tab. 5.1–5.4 | `tab:3d_hardware`, `tab:3d_fahrzeugdaten`, `tab:3d_belohnung`, `tab:3d_vergleich2d` | |
+| Tab. 6.1–6.5 | `tab:gegenversuch_einfrieren`, `tab:agent1_einstellungen`, `tab:agentenvergleich`, `tab:ohne_nachtraining`, `tab:transfer` | |
 
-Tabellen: `tab:3d_hardware`, `tab:3d_fahrzeugdaten`, `tab:3d_belohnung`, `tab:gegenversuch_einfrieren`,
-`tab:agent1_einstellungen`, `tab:agentenvergleich`, `tab:ohne_nachtraining`, `tab:transfer`.
+Die Diagramme entstehen mit `carrera_rl/abbildungen_arbeit.py` im 3D-Repository.
+
+## Format (wie Magnus' Kapitel)
+
+- `\section`/`\subsection` jeweils mit `\label` direkt darunter und einer Leerzeile davor und danach.
+- Kleine fette Überschriften (`\paragraph{...}`) nur dort, wo keine echte Überschrift steht
+  (Stufen der Pipeline, „Bewertung“, „Ursache des Durchbruchs“, Leitfragen in 6.6.3).
+- Beschriftung der Tabellen oben, der Abbildungen unten, alle mit Punkt am Ende.
+- Zahlen und Einheiten mit `siunitx` (`\num`, `\SI`), Abkürzungen mit `\ac{...}`.
 
 ## Offen (im Quelltext als `% TODO` markiert)
 
-- Abschnitte „Was übernommen wird“ und „Was geändert werden musste“ sind leer.
-- Stufe 2: Datenquelle von Agent 2 fehlt.
-- Verweis auf den Abschnitt „Einschränkungen“ (Kapitel existiert noch nicht).
-- Quelle des Produktbilds (`fahrzeug_real.jpg`) und Autor/Lizenz des Sketchfab-Modells.
-- Ungetestet kompiliert: Auf Felix' Rechner ist kein LaTeX installiert. Syntax, Labels, Zitate,
-  Abkürzungen und Bildpfade wurden per Skript geprüft.
+- Verweis auf den Abschnitt „Einschränkungen“ (Abschnitt existiert noch nicht).
+- Abstimmung mit Magnus: sein Abschnitt 3.2 (Gerüst für Phase 2), Einleitung, Tabelle
+  „Abnahmekriterien“ und „Fazit zu Phase 2“ kennen diesen Teil noch nicht (Einzelheiten im
+  Kommentar zu Kapitel 6 in der Word-Datei).
+- Mit Tectonic (XeTeX) testweise kompiliert, ohne Fehler und ohne offene Verweise; mit pdfLaTeX
+  und biber noch nicht (auf Felix' Rechner nicht installiert).
